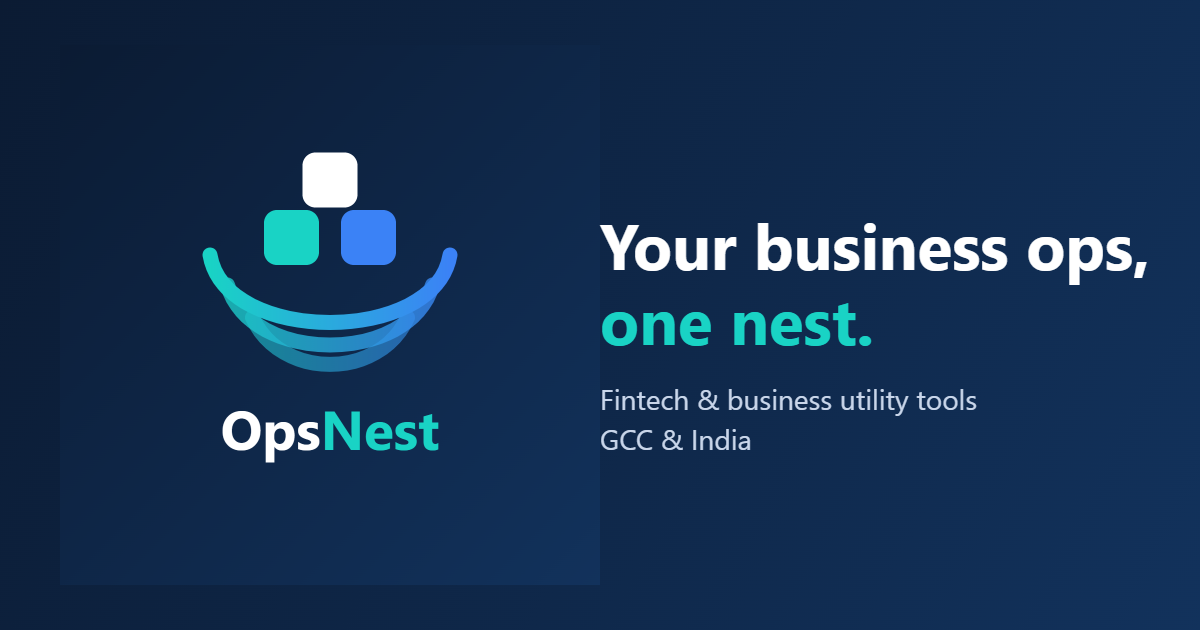
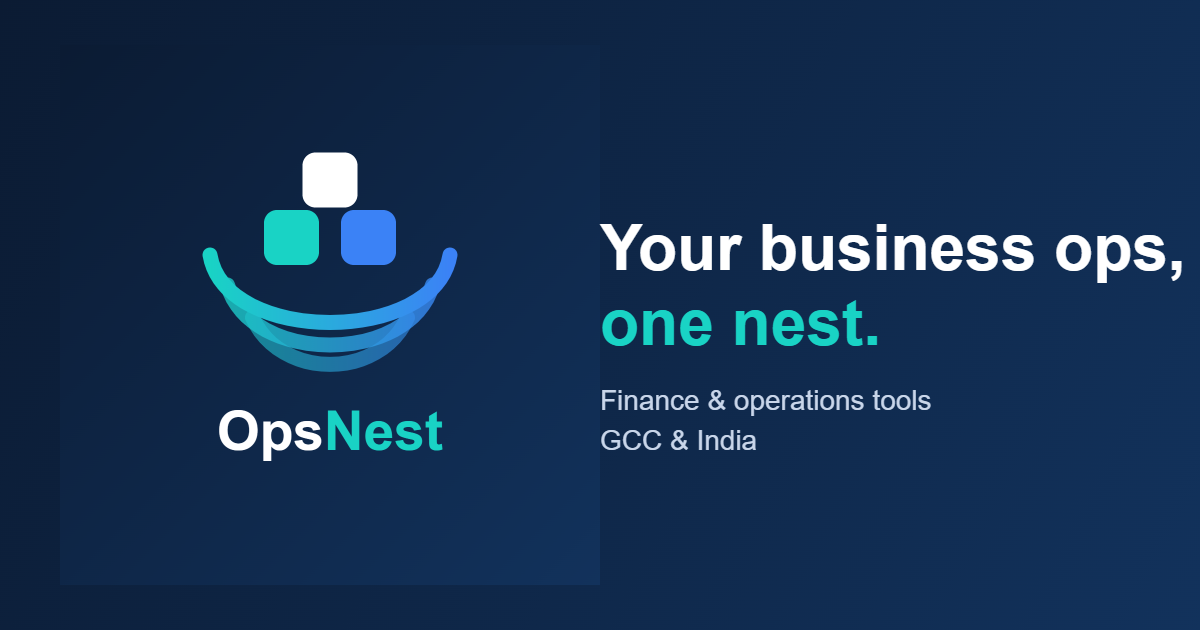
Replace "fintech" with "finance & operations"

diff --git a/index.html b/index.html
@@ -3,10 +3,10 @@
 <head>
 <meta charset="utf-8">
 <meta name="viewport" content="width=device-width, initial-scale=1">
-<title>OpsNest | Fintech & Business Utility Tools</title>
-<meta name="description" content="OpsNest builds practical fintech and business utility tools for site-based operations: financial visibility, AI bill scanning, invoicing, attendance and inspection tracking.">
+<title>OpsNest | Finance & Operations Tools</title>
+<meta name="description" content="OpsNest builds practical finance and operations tools for site-based operations: financial visibility, AI bill scanning, invoicing, attendance and inspection tracking.">
 <meta property="og:title" content="OpsNest | Your business ops, one nest">
-<meta property="og:description" content="Practical fintech and operations tools for site-based businesses in the GCC and India.">
+<meta property="og:description" content="Practical finance and operations tools for site-based businesses in the GCC and India.">
 <meta property="og:image" content="og.png">
 <meta property="og:type" content="website">
 <meta name="theme-color" content="#0B1B33">
@@ -179,7 +179,7 @@ footer .wrap{display:flex;justify-content:space-between;align-items:center;gap:1
 <div class="hero">
   <div class="wrap">
     <div>
-      <span class="pill">Fintech &amp; business utility tools</span>
+      <span class="pill">Finance &amp; operations tools</span>
       <h1>Your business ops, <span class="grad">one nest.</span></h1>
       <p class="lead">Practical software for site-based operations. Scan bills, reconcile cash, raise invoices, track attendance and inspections, and see your finances on demand, without an ERP.</p>
       <div class="cta">
@@ -322,7 +322,7 @@ footer .wrap{display:flex;justify-content:space-between;align-items:center;gap:1
   <div class="wrap about">
     <div class="about-card reveal">
       <img src="logo.png" alt="OpsNest logo">
-      <p>Fintech &amp; business utility tools<br>GCC &amp; India</p>
+      <p>Finance &amp; operations tools<br>GCC &amp; India</p>
     </div>
     <div class="reveal">
       <p class="eyebrow">About</p>
@@ -362,7 +362,7 @@ footer .wrap{display:flex;justify-content:space-between;align-items:center;gap:1
 <footer>
   <div class="wrap">
     <a href="#top" class="brand" style="font-size:1.05rem"><img src="mark.png" alt="" style="width:30px;height:30px"><span>Ops<b>Nest</b></span></a>
-    <span>&copy; <span id="yr">2026</span> OpsNest &middot; Fintech &amp; Business Utility Tools &middot; GCC &amp; India</span>
+    <span>&copy; <span id="yr">2026</span> OpsNest &middot; Finance &amp; Operations Tools &middot; GCC &amp; India</span>
   </div>
 </footer>
 

diff --git a/README.md b/README.md
@@ -1,5 +1,5 @@
 # OpsNest
 
-Fintech & business utility tools website.
+Finance & operations tools website.
 
 Live: https://mahboob17a.github.io/opsnest/
